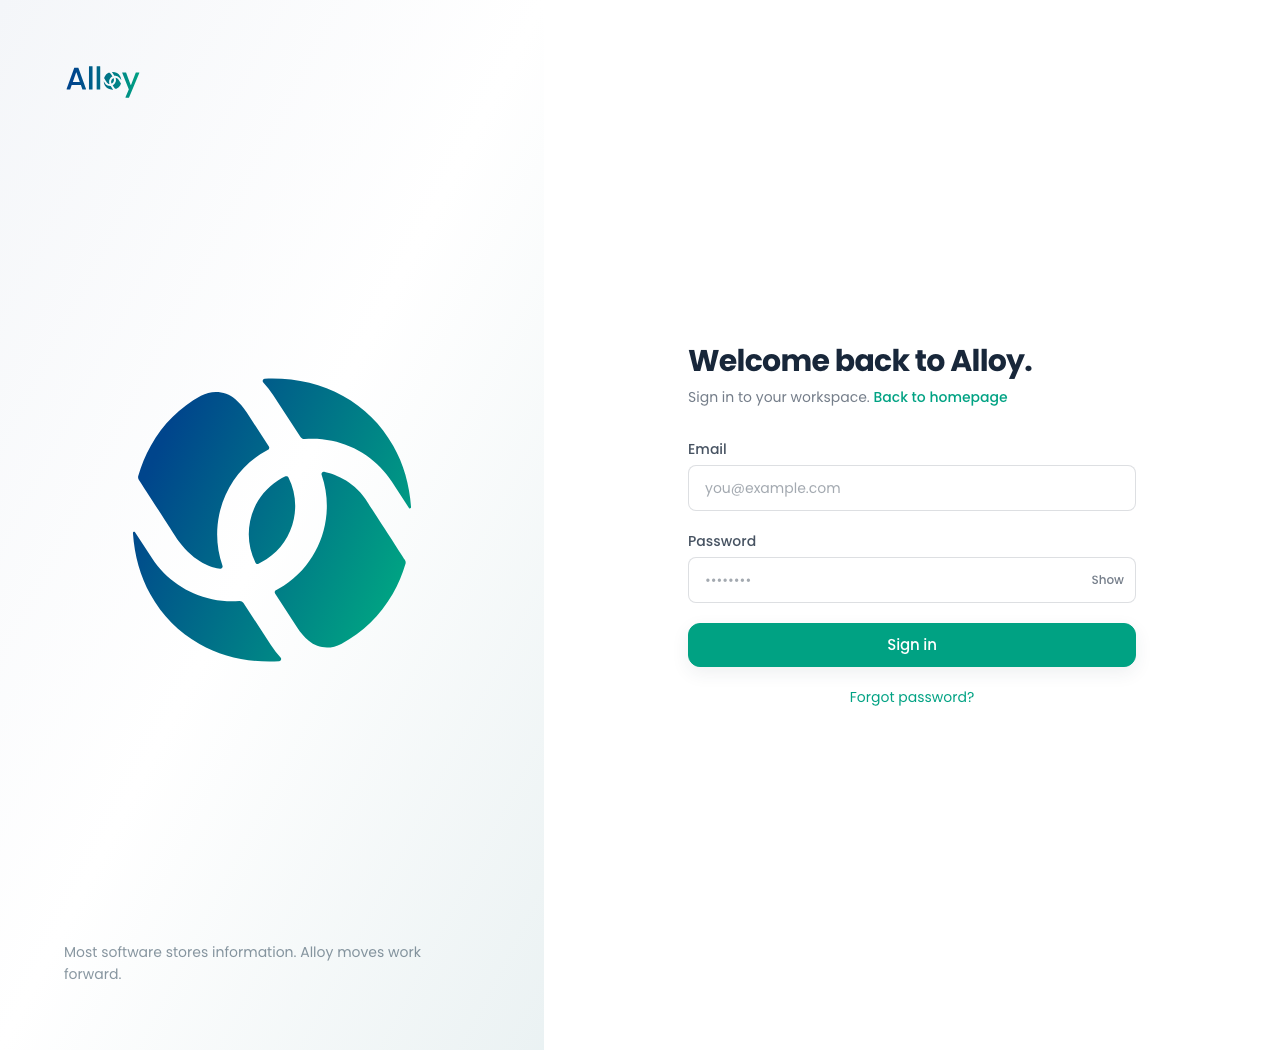
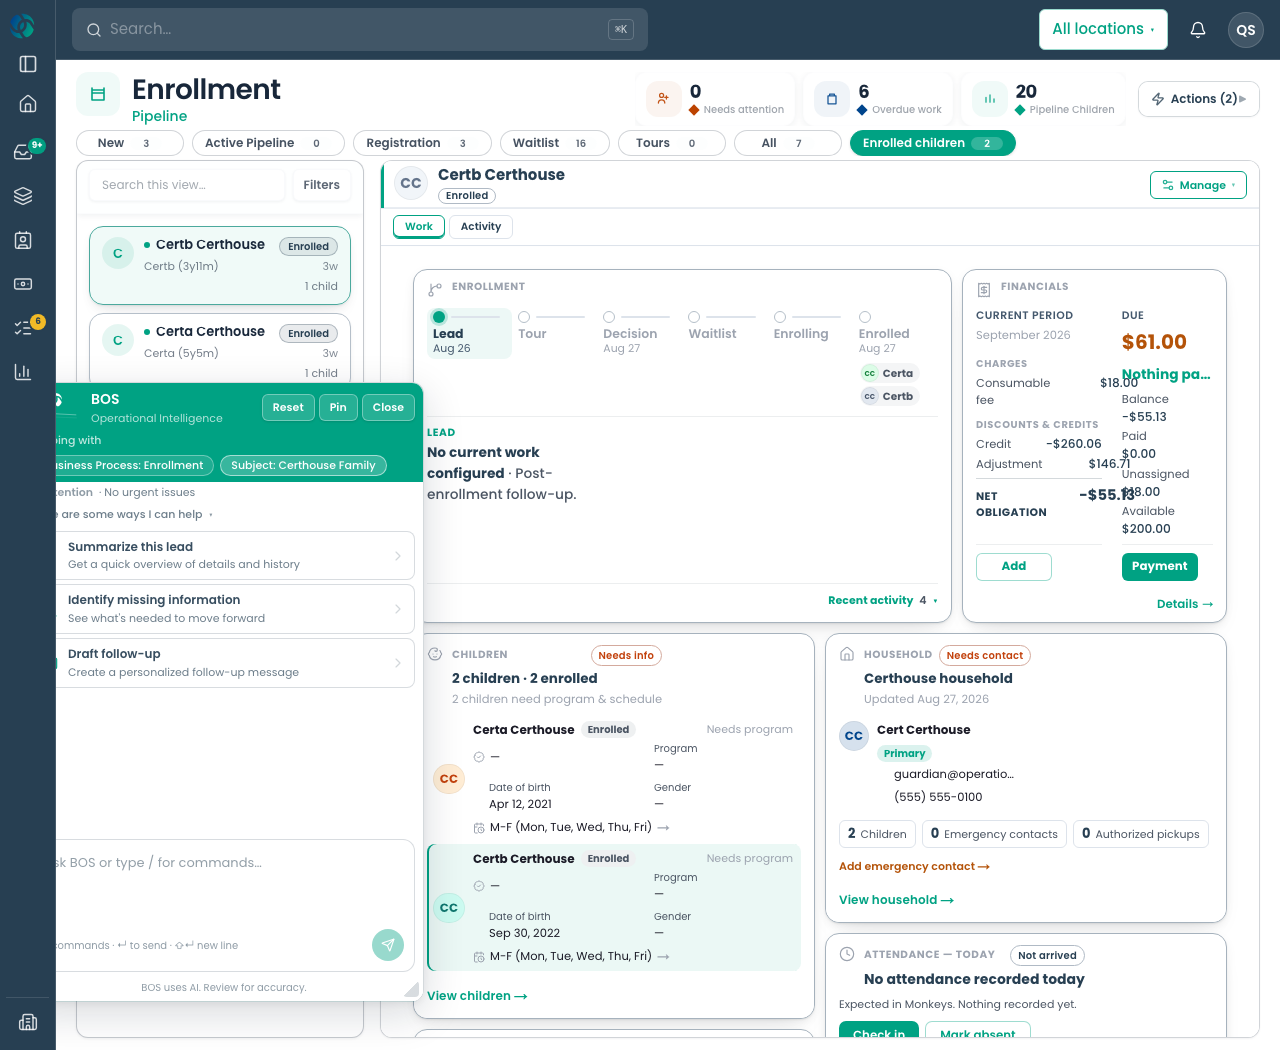
fix(financials): the position column collapses before it starves its labels
MEASURED, WRONG ONCE, THEN MEASURED AGAIN.

The right-hand facts were ellipsising — `Availa…`, `Unassi…`. Two causes:

The base `__line-value` reserves `min-width: 76px` so amounts align as a column.
In the POSITION zone the value is already `flex: 0 0 auto` at the row's end, so
it aligns without the floor — but the floor still applied, taking 76 of the
zone's 91 pixels and leaving the label SEVEN. Released to `min-width: 0`.

That is enough at 1680 and nowhere narrower. The card is 265px at a 1280
viewport and 286px at 1440, giving a 91px and 100px position column, while
`Available` plus `$200.00` needs ~108px at honest type.

MY FIRST ATTEMPT MADE IT WORSE. I stacked the label above its figure inside the
two-column layout. The ellipsis went away and the taller right column overlapped
the obligation story beside it — `NET OBLIGATION` collided with `$18.00`.
Clipping traded for a collision is not a repair, and the mounted frame is what
showed it; the numbers alone said "no longer clipped" and were content.

The existing rule already had the answer in its own note — "below the width
where a second column can still state a figure, there is one column". The
threshold was simply measured for `Balance` and `Paid`, before `Unassigned` and
`Available` existed. Moved 230px → 340px, where the evidence puts it.

    1280   card 265   cols 237                  one column
    1440   card 286   cols 258                  one column
[…]

diff --git a/web/app/adminV2/components/operationalCardsShared.css b/web/app/adminV2/components/operationalCardsShared.css
@@ -3013,39 +3013,24 @@
  * already spans the card — is unaffected.
  */
 /*
- * ── A POSITION FACT STATES ITSELF IN FULL, OR IT STACKS ────────────────────────────────────────
+ * ── THE THRESHOLD WAS SET FOR SHORTER WORDS ───────────────────────────────────────────────────
  *
- * Releasing the value's floor (above) is enough at the wider columns, but a narrow position zone
- * cannot fit `Available` and `$200.00` on one line at any honest type size — measured, the zone is
- * 91px at a 1280 viewport while the pair needs ~108px.
+ * Raised from 230px to 340px, measured. The card is 265px at a 1280 viewport and 286px at 1440,
+ * so the collapse never fired and the position column stayed 91px and 100px — narrower than
+ * `Available` plus `$200.00` needs (~108px) at any honest type size. Only at 1680, where the card
+ * is 366px and the column 134px, do both halves fit on one line.
  *
- * The rule the card already keeps is that a financial LABEL is not abbreviated to fit a layout:
- * `Balance` and `Paid` are real product words, not truncations, and `Available` and `Unassigned`
- * are the facts they name. So below the width where both halves fit on one line, the row stacks —
- * the label on its own line, the figure beneath it, both complete.
+ * The first attempt at this stacked the label above its figure INSIDE the two-column layout. It
+ * removed the ellipsis and produced something worse: the taller right column overlapped the
+ * obligation story beside it, so `NET OBLIGATION` collided with `$18.00`. Clipping traded for a
+ * collision is not a repair.
  *
- * Same instrument as the two-column collapse below: the card is the query container, so this asks
- * about the CARD's width rather than the viewport's, which is the only question that means
- * anything to a card placed in an 8-column or a 4-column slot.
+ * This rule's own note already had the answer — "below the width where a second column can still
+ * state a figure, there is one column". The width was simply measured for `Balance` and `Paid`,
+ * before `Unassigned` and `Available` existed. One instrument, one threshold, moved to where the
+ * evidence puts it.
  */
 @container alloy-billing (max-width: 340px) {
-  .alloy-os-billing__zone--position .alloy-os-billing__line {
-    flex-wrap: wrap;
-    gap: 0 8px;
-  }
-  .alloy-os-billing__zone--position .alloy-os-billing__line-label {
-    white-space: normal;
-    overflow: visible;
-    text-overflow: clip;
-    flex: 1 0 100%;
-  }
-  .alloy-os-billing__zone--position .alloy-os-billing__line-value {
-    flex: 1 0 100%;
-    text-align: left;
-  }
-}
-
-@container alloy-billing (max-width: 230px) {
   .alloy-os-billing__zones--two {
     grid-template-columns: minmax(0, 1fr);
   }

diff --git a/web/playwright/tests/zz-11a-clip-measure.spec.ts b/web/playwright/tests/zz-11a-clip-measure.spec.ts
@@ -32,13 +32,22 @@ for (const width of [1280, 1440, 1680]) {
                     zoneW: Math.round(((h.closest(".alloy-os-billing__zone") as HTMLElement) ?? h).getBoundingClientRect().width),
                 });
             }
+            const card = document.querySelector(".alloy-os-billing") as HTMLElement | null;
+            const zones = document.querySelector(".alloy-os-billing__zones--two") as HTMLElement | null;
+            out.push({
+                text: "__CARD__",
+                cardW: card ? Math.round(card.getBoundingClientRect().width) : null,
+                zonesW: zones ? Math.round(zones.getBoundingClientRect().width) : null,
+                cols: zones ? getComputedStyle(zones).gridTemplateColumns : null,
+            } as never);
             return out;
         });
         writeFileSync(`${OUT}/clip-${width}.json`, JSON.stringify(r, null, 2));
         /* eslint-disable no-console */
         log(`\n=== ${width}px ===`);
         for (const l of r) {
-            log(`  ${l.clipped ? "CLIPPED" : "ok     "} "${l.text}" scroll=${l.scrollW} client=${l.clientW} parent=${l.parentW} zone=${l.zoneW} overflow=${l.overflow} textOverflow=${l.textOverflow} ws=${l.whiteSpace}`);
+            if (l.text === "__CARD__") { log(`  CARD width=${l.cardW} zones=${l.zonesW} cols=${l.cols}`); continue; }
+            log(`  ${l.clipped ? "CLIPPED" : "ok     "} "${l.text}" scroll=${l.scrollW} client=${l.clientW} parent=${l.parentW} zone=${l.zoneW}`);
         }
         /* eslint-enable no-console */
     });
